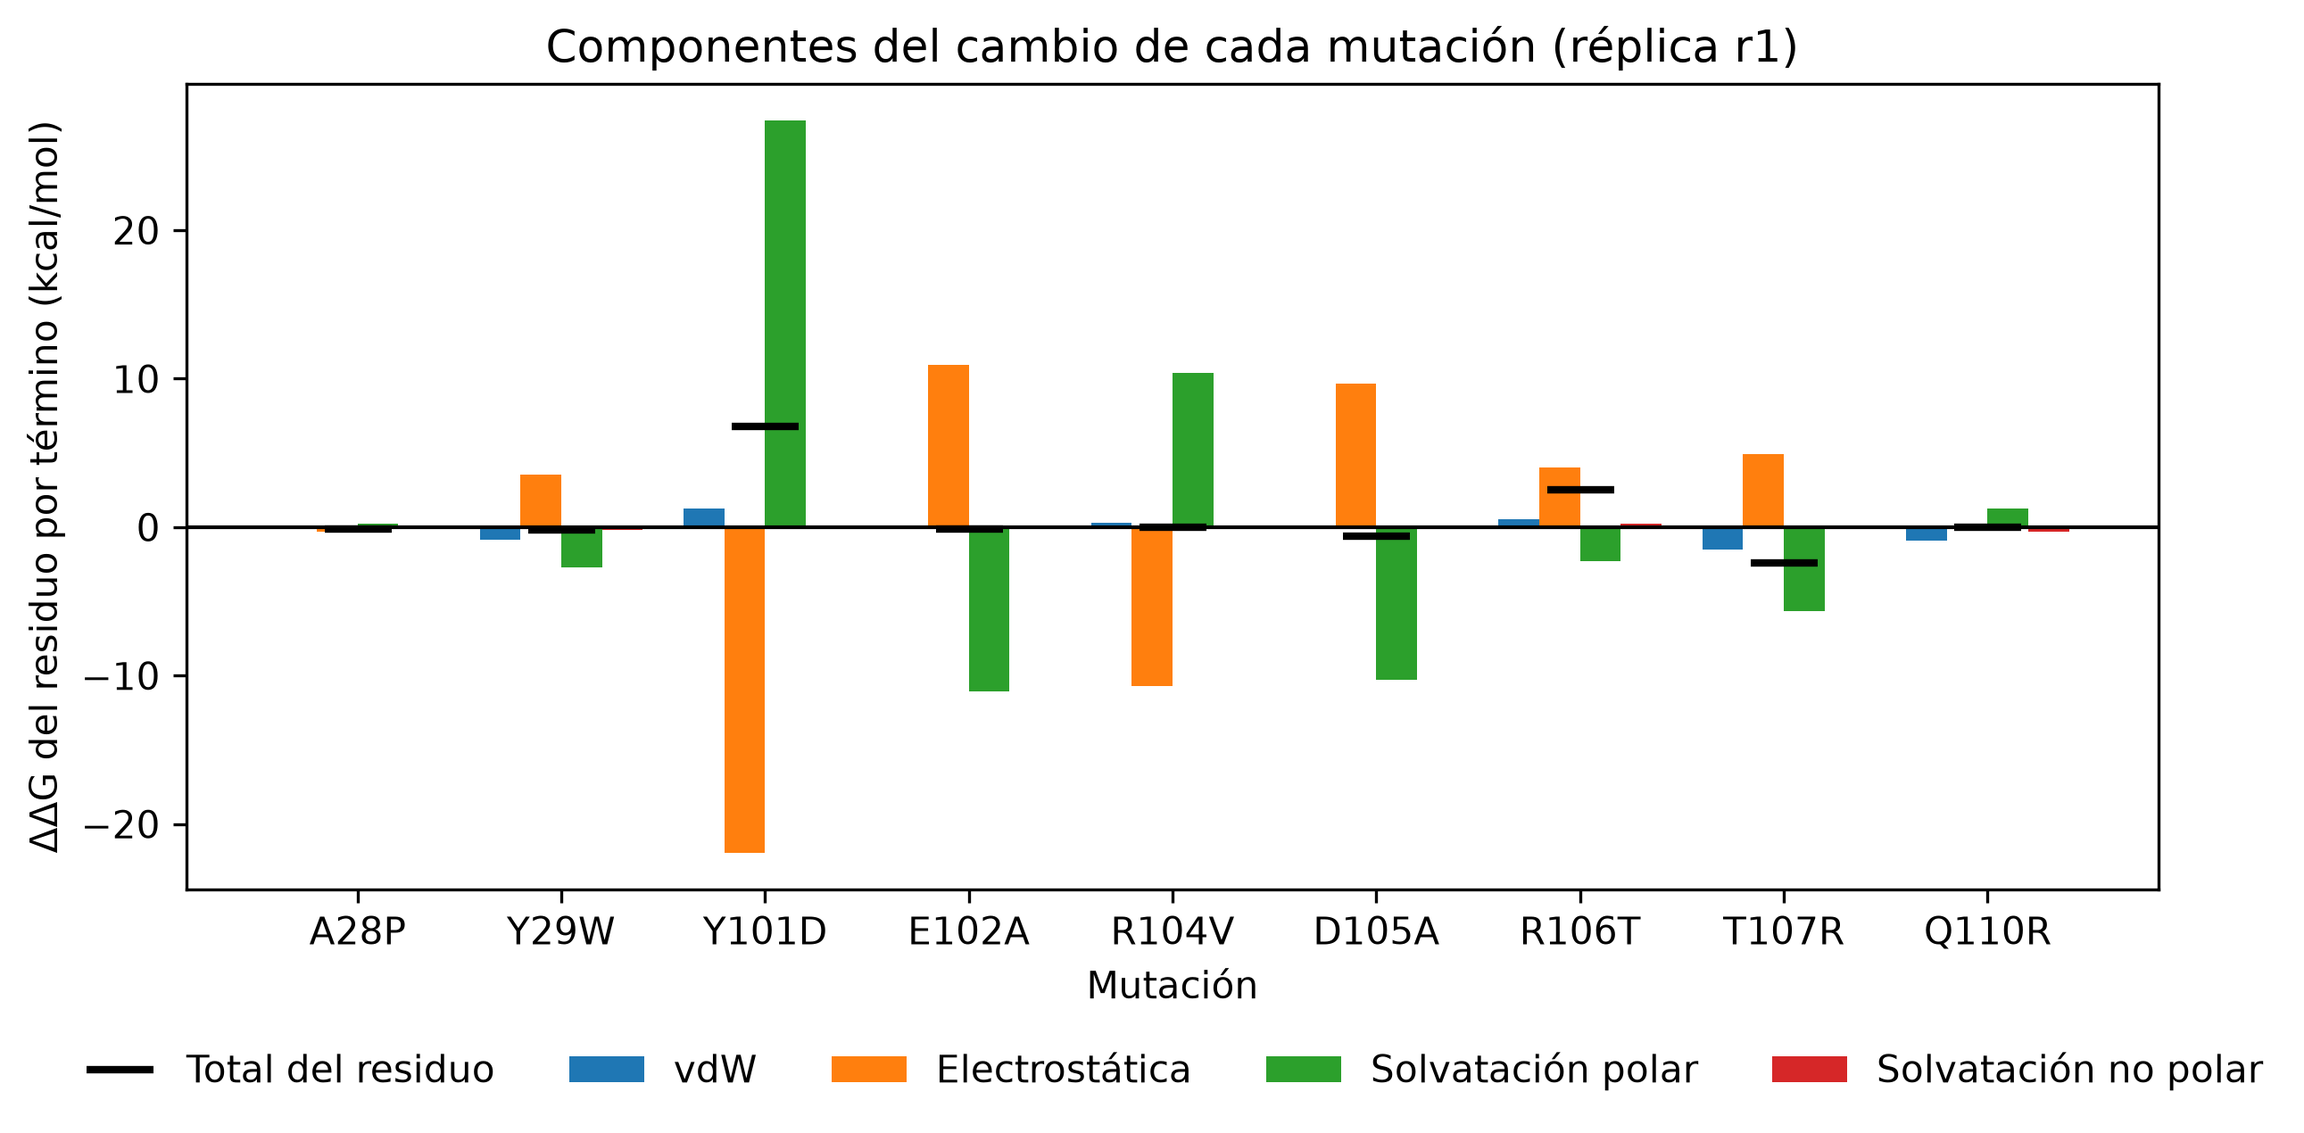
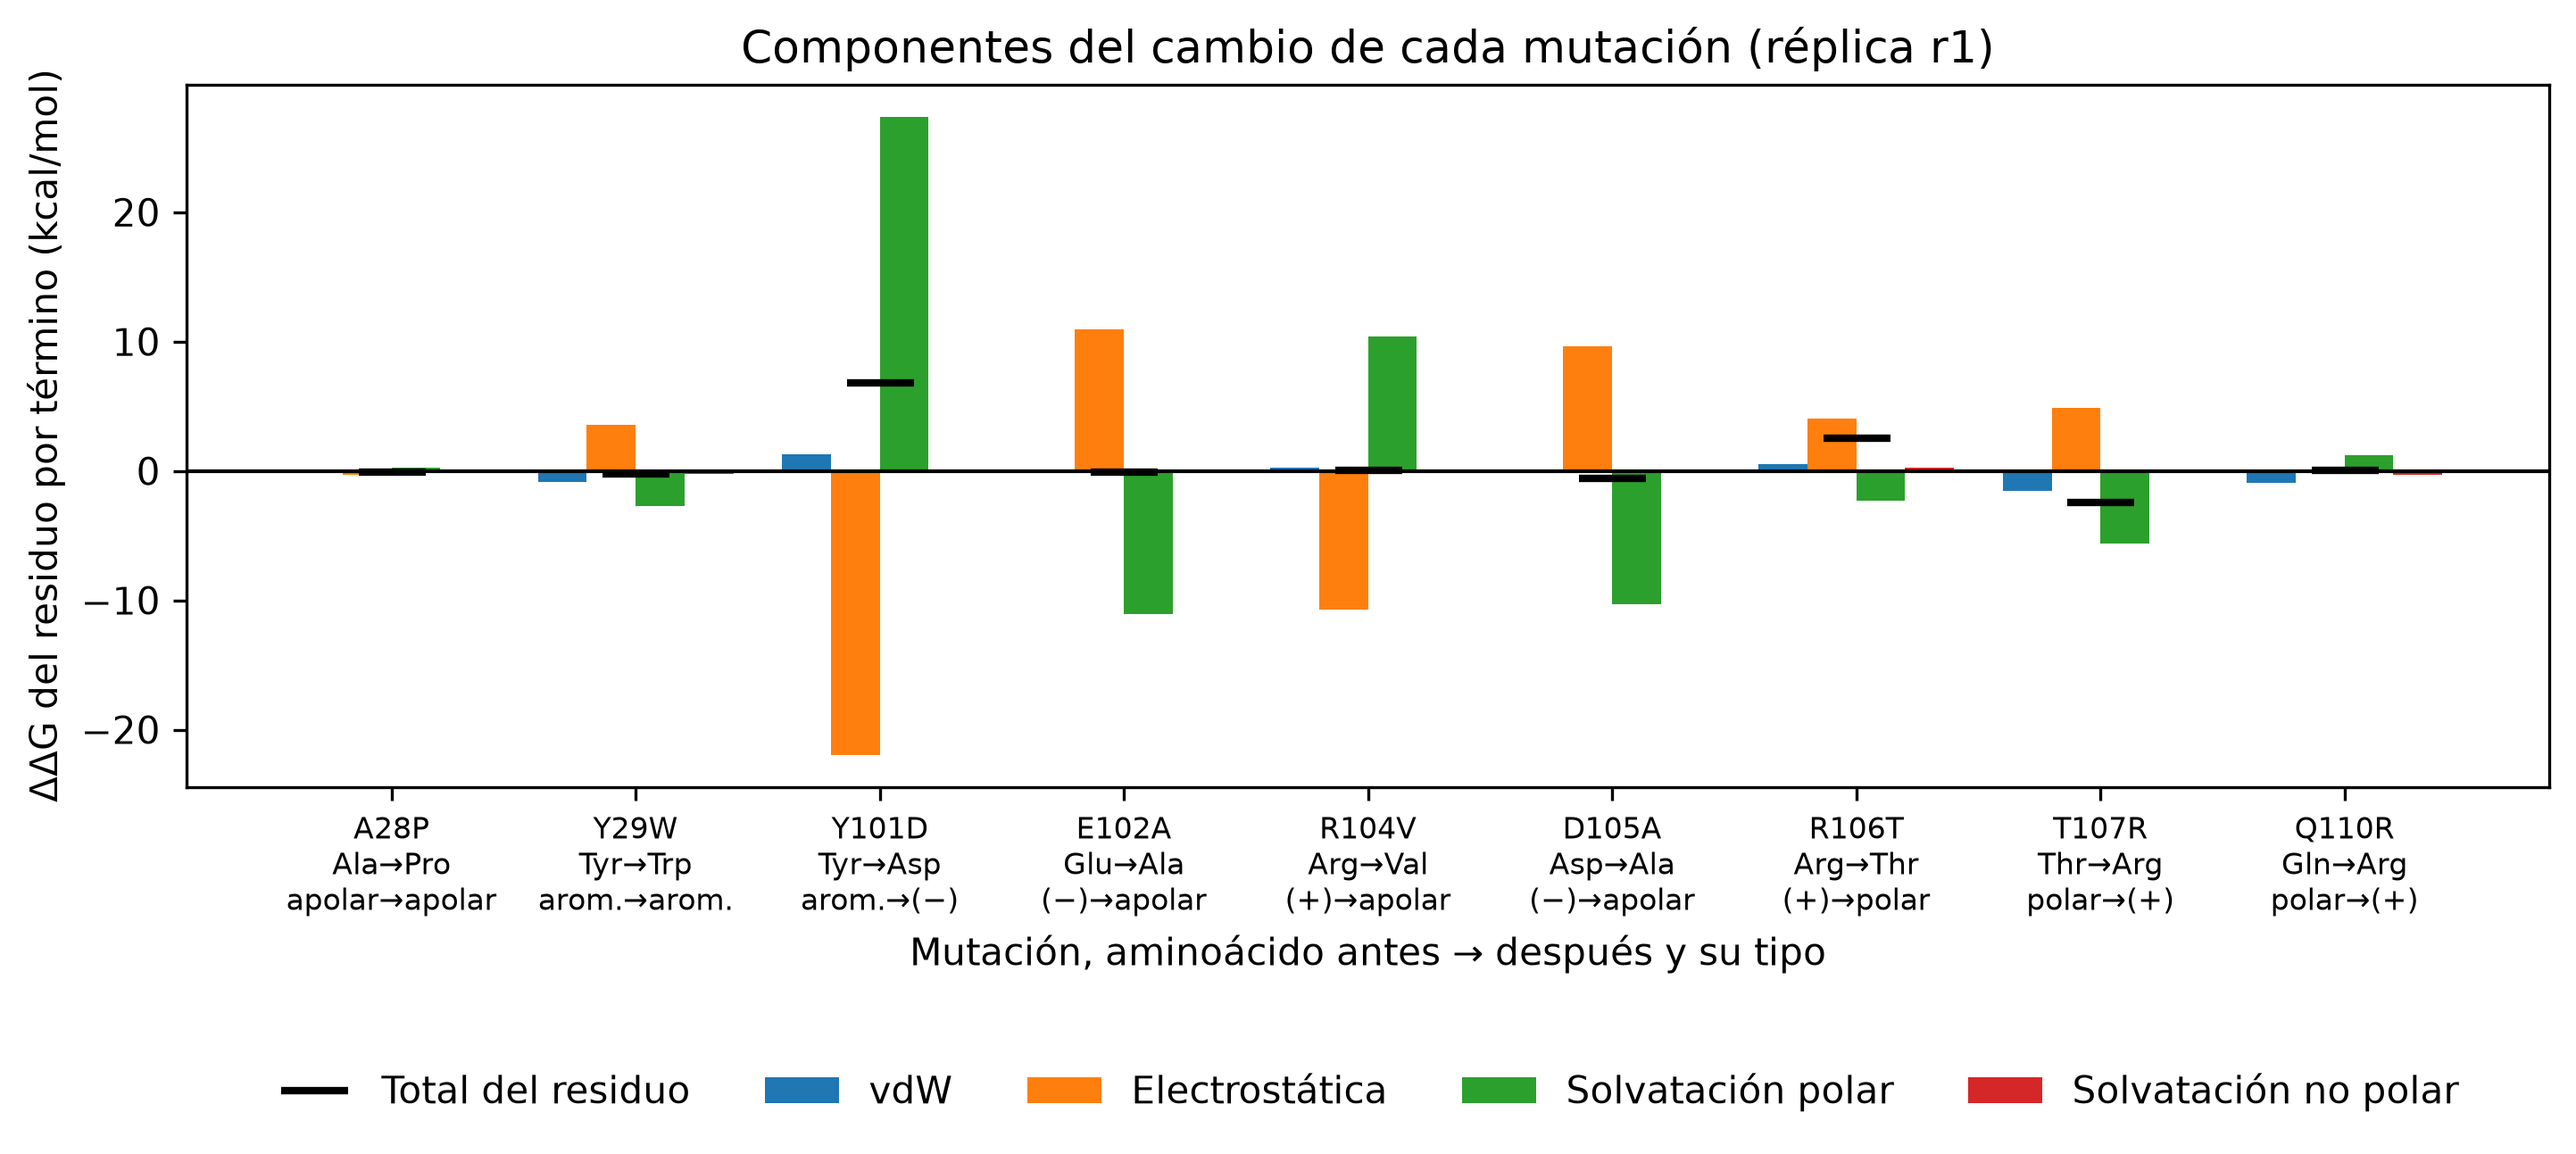
Mutation figures: add previous amino acid and type to labels; extend table

Changed region(s): [[0.0, 0.0307, 0.9915, 0.8906], [0.031, 0.9213, 0.9915, 0.9827]]

diff --git a/scripts/figuras_mutaciones.py b/scripts/figuras_mutaciones.py
@@ -20,44 +20,50 @@ E = RAIZ / "D_F_energia"
 UNA = {"ALA": "A", "ARG": "R", "ASN": "N", "ASP": "D", "CYS": "C", "GLN": "Q", "GLU": "E", "GLY": "G", "HIS": "H", "ILE": "I",
        "LEU": "L", "LYS": "K", "MET": "M", "PHE": "F", "PRO": "P", "SER": "S", "THR": "T", "TRP": "W", "TYR": "Y", "VAL": "V"}
 POS = [28, 29, 101, 102, 104, 105, 106, 107, 110]
+TRES = {"ALA": "Ala", "ARG": "Arg", "ASP": "Asp", "GLN": "Gln", "GLU": "Glu", "PRO": "Pro", "THR": "Thr", "TRP": "Trp", "TYR": "Tyr", "VAL": "Val"}
+# tipo de aminoácido: apolar, aromático, polar neutro, carga positiva (+), carga negativa (−)
+TIPO = {"ALA": "apolar", "VAL": "apolar", "PRO": "apolar", "TYR": "arom.", "TRP": "arom.",
+        "THR": "polar", "GLN": "polar", "ARG": "(+)", "LYS": "(+)", "ASP": "(−)", "GLU": "(−)"}
 d = {s: decomp(E / "resultados_mmgbsa" / s / "FINAL_DECOMP_MMPBSA.csv") for s in ("2A", "2B")}
 
 filas = []
 for p in POS:
     a, b = d["2A"][("NB", p)], d["2B"][("NB", p)]
     nombre = f"{UNA[a['res']]}{p}{UNA[b['res']]}"
-    fila = dict(nombre=nombre, g2A=np.mean(a["TOTAL"]), g2B=np.mean(b["TOTAL"]))
+    etiqueta = f"{nombre}\n{TRES[a['res']]}→{TRES[b['res']]}\n{TIPO[a['res']]}→{TIPO[b['res']]}"
+    fila = dict(nombre=nombre, etiqueta=etiqueta, g2A=np.mean(a["TOTAL"]), g2B=np.mean(b["TOTAL"]))
     fila["dd"] = fila["g2B"] - fila["g2A"]
     fila["err"] = float(np.hypot(block_sem(a["TOTAL"]), block_sem(b["TOTAL"])))
     for t in ("vdW", "Ele", "Polar", "NoPolar"):
         fila[t] = np.mean(b[t]) - np.mean(a[t])
     filas.append(fila)
-nombres = [f["nombre"] for f in filas]
+nombres = [f["etiqueta"] for f in filas]
+nombres_cortos = [f["nombre"] for f in filas]
 x = np.arange(len(filas))
 
 # 1. ΔG_i en 2A y 2B
-fig, ax = nueva(8, 4.2)
+fig, ax = nueva(9, 4.6)
 ax.bar(x - 0.2, [f["g2A"] for f in filas], 0.4, color=AZUL, label="2A")
 ax.bar(x + 0.2, [f["g2B"] for f in filas], 0.4, color=NARANJA, label="2B")
 ax.axhline(0, color="k", lw=1)
-ax.set_xticks(x, nombres)
-ax.set(xlabel="Mutación (aminoácido en 2A, posición, aminoácido en 2B)", ylabel="Contribución del residuo ΔG (kcal/mol)",
+ax.set_xticks(x, nombres, fontsize=8)
+ax.set(xlabel="Mutación, aminoácido antes → después y su tipo", ylabel="Contribución del residuo ΔG (kcal/mol)",
        title="Contribución de las 9 posiciones mutadas a la unión (réplica r1)")
-leyenda_abajo(ax)
+leyenda_abajo(ax, y=-0.36)
 guardar(fig, E / "figuras/F_mutaciones_dG_r1.png")
 
 # 2. ΔΔG_i con error
-fig, ax = nueva(8, 4.2)
+fig, ax = nueva(9, 4.6)
 ax.bar(x, [f["dd"] for f in filas], yerr=[f["err"] for f in filas], color=AZUL, capsize=3, error_kw=dict(lw=1))
 ax.axhline(0, color="k", lw=1)
-ax.set_xticks(x, nombres)
+ax.set_xticks(x, nombres, fontsize=8)
 tot = sum(f["dd"] for f in filas)
-ax.set(xlabel="Mutación", ylabel="ΔΔG del residuo = 2B − 2A (kcal/mol)",
+ax.set(xlabel="Mutación, aminoácido antes → después y su tipo", ylabel="ΔΔG del residuo = 2B − 2A (kcal/mol)",
        title=f"Cambio de contribución de cada mutación (réplica r1); suma de las 9 = {tot:+.2f}")
 guardar(fig, E / "figuras/F_mutaciones_ddG_r1.png")
 
 # 3. Componentes del ΔΔG_i
-fig, ax = nueva(9, 4.4)
+fig, ax = nueva(10, 4.8)
 ancho = 0.2
 colores = {"vdW": "tab:blue", "Ele": "tab:orange", "Polar": "tab:green", "NoPolar": "tab:red"}
 nombres_t = {"vdW": "vdW", "Ele": "Electrostática", "Polar": "Solvatación polar", "NoPolar": "Solvatación no polar"}
@@ -65,13 +71,14 @@ for i, t in enumerate(colores):
     ax.bar(x + (i - 1.5) * ancho, [f[t] for f in filas], ancho, color=colores[t], label=nombres_t[t])
 ax.plot(x, [f["dd"] for f in filas], "k_", ms=18, mew=2, label="Total del residuo")
 ax.axhline(0, color="k", lw=1)
-ax.set_xticks(x, nombres)
-ax.set(xlabel="Mutación", ylabel="ΔΔG del residuo por término (kcal/mol)",
+ax.set_xticks(x, nombres, fontsize=8)
+ax.set(xlabel="Mutación, aminoácido antes → después y su tipo", ylabel="ΔΔG del residuo por término (kcal/mol)",
        title="Componentes del cambio de cada mutación (réplica r1)")
-leyenda_abajo(ax, ncol=5)
+leyenda_abajo(ax, ncol=5, y=-0.36)
 guardar(fig, E / "figuras/F_mutaciones_componentes_r1.png")
 
-lin = ["Réplica r1, las 9 posiciones mutadas (kcal/mol). ΔΔG = 2B − 2A; error = SEM por bloques de la trayectoria",
+lin = ["Tipos: apolar, arom. (aromático), polar (sin carga), (+) y (−) = aminoácido con carga, arom. = aromático",
+       "Réplica r1, las 9 posiciones mutadas (kcal/mol). ΔΔG = 2B − 2A; error = SEM por bloques de la trayectoria",
        f"{'mutación':10s}{'ΔG_i 2A':>9s}{'ΔG_i 2B':>9s}{'ΔΔG_i':>8s}{'±':>6s}{'vdW':>8s}{'Elec.':>8s}{'Polar':>8s}{'NoPol.':>8s}"]
 for f in filas:
     lin.append(f"{f['nombre']:10s}{f['g2A']:9.2f}{f['g2B']:9.2f}{f['dd']:8.2f}{f['err']:6.2f}{f['vdW']:8.2f}{f['Ele']:8.2f}{f['Polar']:8.2f}{f['NoPolar']:8.2f}")

diff --git a/scripts/estilo_figuras.py b/scripts/estilo_figuras.py
@@ -12,8 +12,8 @@ plt.rcdefaults()
 def nueva(ancho=7, alto=4):
     return plt.subplots(figsize=(ancho, alto))
 
-def leyenda_abajo(ax, ncol=2, **kw):
-    ax.legend(loc="upper center", bbox_to_anchor=(0.5, -0.16), ncol=ncol, frameon=False, **kw)
+def leyenda_abajo(ax, ncol=2, y=-0.16, **kw):
+    ax.legend(loc="upper center", bbox_to_anchor=(0.5, y), ncol=ncol, frameon=False, **kw)
 
 def guardar(fig, ruta):
     fig.tight_layout()

diff --git a/D_F_energia/Explicacion_basica_F.md b/D_F_energia/Explicacion_basica_F.md
@@ -128,18 +128,26 @@ Colorea 2B por ΔΔG_i (3 réplicas): azul = contribuye más en 2B, rojo = contr
 ## 9. Anexo: solo las 9 posiciones mutadas, solo la réplica r1
 Script: `scripts/figuras_mutaciones.py`. Figuras: `figuras/F_mutaciones_dG_r1.png`, `F_mutaciones_ddG_r1.png`, `F_mutaciones_componentes_r1.png`. Tabla: `tablas/mutaciones_r1.txt`. Las posiciones no se escogen por su efecto: son las 9 que difieren en la secuencia (parte A), así que no hay sesgo de selección.
 
-| Mutación | ΔG_i 2A | ΔG_i 2B | ΔΔG_i | vdW | Electrostática | Solv. polar | No polar |
-|---|---|---|---|---|---|---|---|
-| A28P | −0.03 | −0.14 | −0.11 | −0.03 | −0.32 | +0.22 | +0.01 |
-| Y29W | −2.49 | −2.69 | −0.20 | −0.83 | +3.54 | −2.70 | −0.21 |
-| **Y101D** | −5.36 | +1.43 | **+6.79** | +1.27 | −21.96 | +27.39 | +0.08 |
-| E102A | +0.12 | +0.01 | −0.10 | +0.02 | +10.92 | −11.05 | 0.00 |
-| R104V | −0.10 | −0.08 | +0.02 | +0.27 | −10.71 | +10.42 | +0.04 |
-| D105A | +0.66 | +0.08 | −0.59 | +0.05 | +9.65 | −10.28 | 0.00 |
-| **R106T** | −3.66 | −1.12 | **+2.54** | +0.54 | +4.04 | −2.29 | +0.25 |
-| **T107R** | −3.23 | −5.64 | **−2.42** | −1.53 | +4.89 | −5.63 | −0.15 |
-| Q110R | −0.21 | −0.19 | +0.02 | −0.94 | +0.04 | +1.23 | −0.32 |
-| **Suma** | −14.29 | −8.34 | **+5.95** | | | | |
+| Mutación | Antes → después | Tipo | ¿Toca la RNasa en 2B? | ΔG_i 2A | ΔG_i 2B | ΔΔG_i | vdW | Electrost. | Solv. polar | No polar |
+|---|---|---|---|---|---|---|---|---|---|---|
+| A28P | Ala → Pro | apolar → apolar | No | −0.03 | −0.14 | −0.11 | −0.03 | −0.32 | +0.22 | +0.01 |
+| Y29W | Tyr → Trp | arom. → arom. | Sí | −2.49 | −2.69 | −0.20 | −0.83 | +3.54 | −2.70 | −0.21 |
+| **Y101D** | Tyr → Asp | arom. → (−) | Sí | −5.36 | +1.43 | **+6.79** | +1.27 | −21.96 | +27.39 | +0.08 |
+| E102A | Glu → Ala | (−) → apolar | No | +0.12 | +0.01 | −0.10 | +0.02 | +10.92 | −11.05 | 0.00 |
+| R104V | Arg → Val | (+) → apolar | No (en 2A sí) | −0.10 | −0.08 | +0.02 | +0.27 | −10.71 | +10.42 | +0.04 |
+| D105A | Asp → Ala | (−) → apolar | No | +0.66 | +0.08 | −0.59 | +0.05 | +9.65 | −10.28 | 0.00 |
+| **R106T** | Arg → Thr | (+) → polar | Sí | −3.66 | −1.12 | **+2.54** | +0.54 | +4.04 | −2.29 | +0.25 |
+| **T107R** | Thr → Arg | polar → (+) | Sí | −3.23 | −5.64 | **−2.42** | −1.53 | +4.89 | −5.63 | −0.15 |
+| Q110R | Gln → Arg | polar → (+) | Sí (en 2A no) | −0.21 | −0.19 | +0.02 | −0.94 | +0.04 | +1.23 | −0.32 |
+| **Suma** | | | | −14.29 | −8.34 | **+5.95** | | | | |
+
+(arom. = aromático; (+) y (−) = aminoácido con carga.)
+
+**Por qué unas cambian mucho y otras no**
+- **Cambian mucho:** Y101D, R106T y T107R. Las tres **tocan la RNasa** y **cambian de carácter químico**: Y101D pasa de un aromático grande a una carga negativa; R106T pierde una carga positiva; T107R gana una carga positiva.
+- **R106T y T107R se compensan:** +2.54 y −2.42 suman **+0.12**. La arginina que formaba el puente salino con Glu111 "se corre una posición". Neto: ≈ 0.
+- **Casi todo el +5.95 viene de Y101D (+6.79).** El resto de las mutaciones suma −0.84.
+- **No cambian:** A28P, E102A, R104V y D105A no tocan la RNasa en 2B (en R104V, Arg104 contribuía solo −0.10 en 2A). Y29W cambia un aromático por otro (−0.20) y Q110R gana una carga sin pareja cercana (+0.02).
 
 Lectura:
 - Tres mutaciones concentran el cambio: Y101D (+6.8), R106T (+2.5) y T107R (−2.4). La suma de las nueve es +5.95 (desfavorable).
